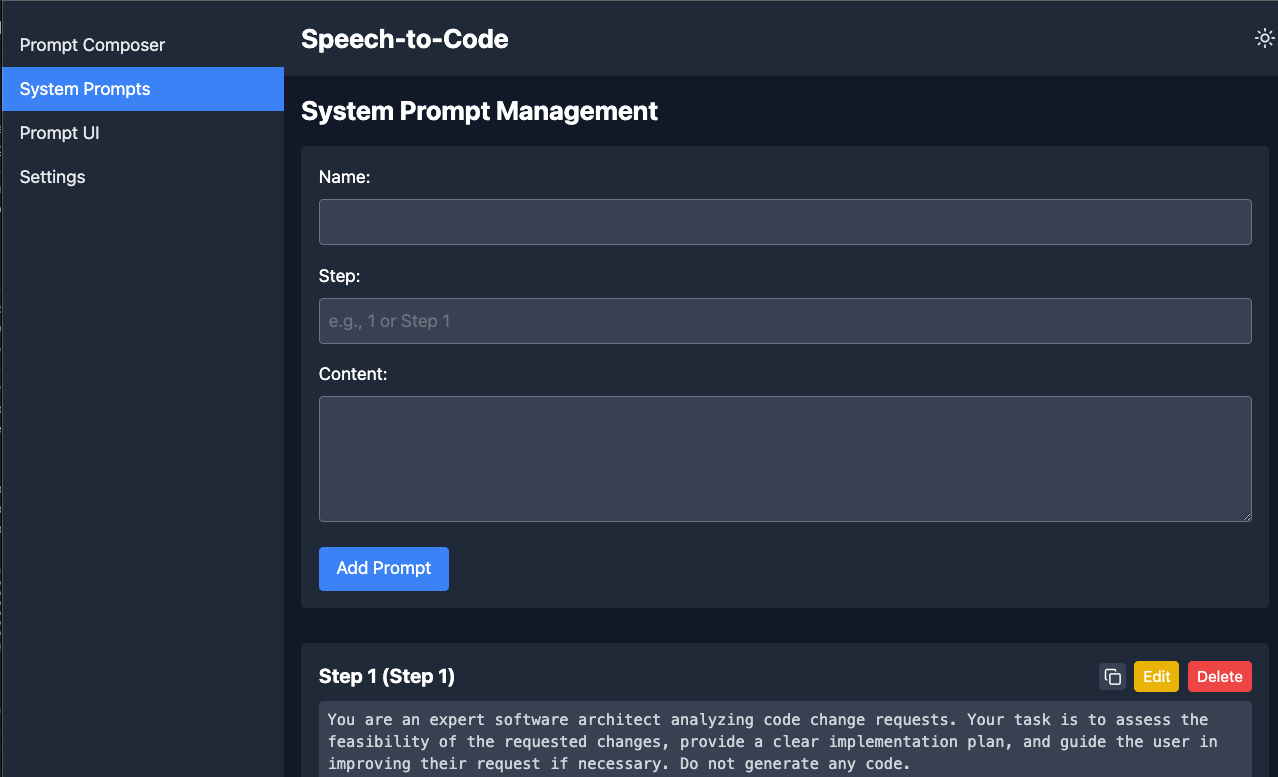
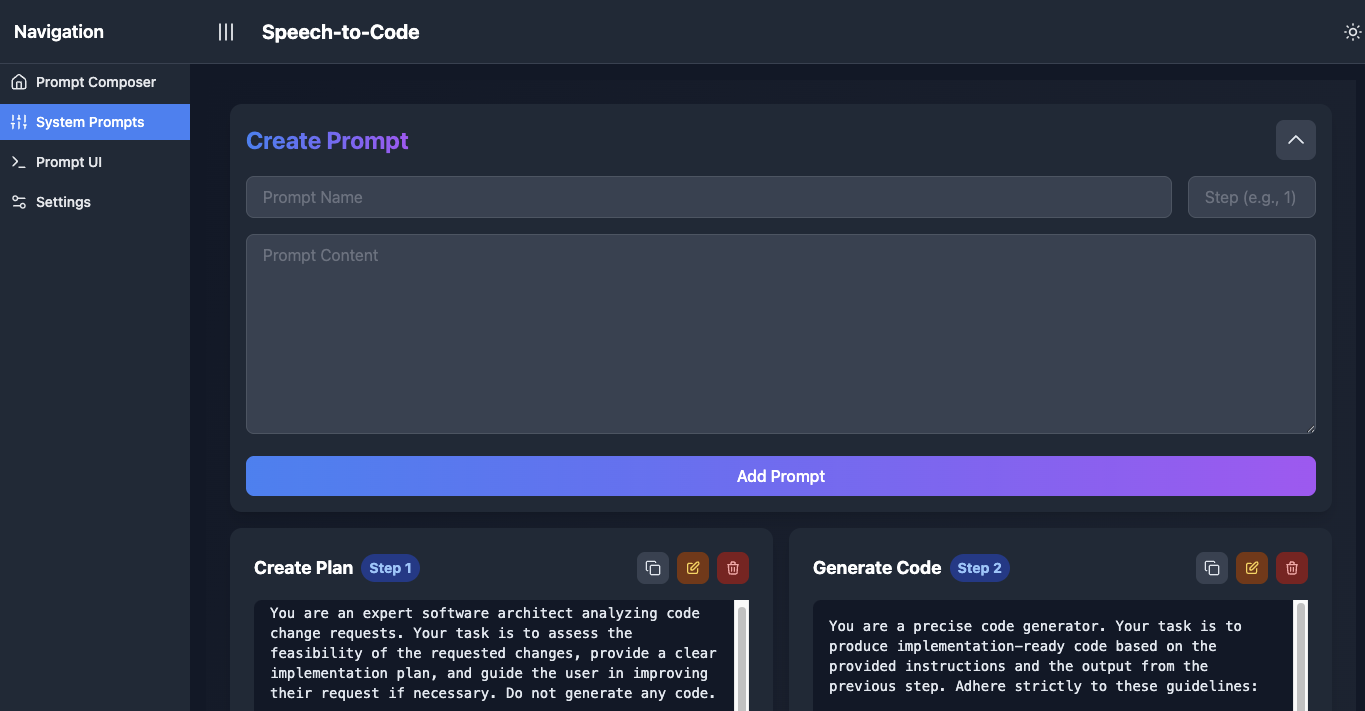
update readme and images

diff --git a/README.md b/README.md
@@ -1,167 +1,159 @@
-# Speech-to-Code
+# 🎙 Speech-to-Code
+
+> Transform your voice into code with the power of AI 🚀
 
 Speech-to-Code is a web application that leverages Large Language Models (LLMs) to convert spoken language into executable code. This project aims to streamline the code generation process by allowing developers to express their ideas verbally and have them translated into functional code.
 
-## Usage
+## ✨ Key Features
 
-Here is an example workflow of the Speech-to-Code application:
+### 🎯 Advanced Prompt Composer
+- 🗣 Combine speech, repository files, and manual text input
+- 📊 Real-time audio visualization for voice input
+- 🔍 Smart file suggestions based on context
+- 👀 Preview and edit prompts before submission
 
-### Write a prompt, combining speech, the repo tree, and current source code
-![Prompt Composer](./screenshots/prompt_composer.png)
+### 🤖 Multi-Model Support
+- 🔌 Integration with multiple LLM providers (OpenAI, Anthropic)
+- ⚙ Customizable model parameters
+- 💰 Cost tracking and display
+- ⚡ Model-specific optimizations
 
-### Prompt an LLM and copy the code
-![Prompt](./screenshots/prompt_ui.png)
-![Copy Code](./screenshots/conversation_display.png)
+### 📁 Repository Integration
+- 🌳 Interactive file viewer for repository navigation
+- 🔗 Smart file combinations for context
+- 📝 File-based suggestions
+- 📊 Repository structure visualization
 
-### Manage system prompts
-![System Prompts](./screenshots/system_prompts.png)
+### 🎤 Transcription Management
+- ⚡ Real-time speech-to-text conversion
+- ✏ Transcription editing and refinement
+- 📈 Voice input visualization
 
-## Prerequisites
+### 💡 System Prompt Management
+- 📝 Create and edit system prompts
+- 📂 Organize prompts by category
+- ⚡ Quick prompt selection
+- 🔄 Version control for prompts
 
-Before you begin, ensure you have met the following requirements:
-* You have installed the latest version of [Node.js and npm](https://nodejs.org/en/download/)
-* You have installed [Python](https://www.python.org/downloads/) (version 3.7 or later)
-* You have a Windows/Linux/Mac machine with command line access
+### 🎨 User Experience
+- 🌓 Dark/Light mode toggle
+- 📊 Two-column layout for better workflow
+- 📱 Responsive design
+- 📋 Copy-to-clipboard functionality
 
-## Installation
+### ⚙ Advanced Settings
+- 🔑 Environment variable management
+- 📂 Repository path configuration
+- 🔒 API key management
+- 🔌 Port configuration
 
-To install Speech-to-Code, follow these steps:
+## 🚀 Getting Started
 
-1. Clone the repository
-   ```
+### 📋 Prerequisites
+
+Before you begin, ensure you have installed:
+* 📦 [Node.js and npm](https://nodejs.org/en/download/) (latest version)
+* 🐍 [Python](https://www.python.org/downloads/) (version 3.7 or later)
+* 💻 A Windows/Linux/Mac machine with command line access
+
+### 🔧 Installation
+
+1. **Clone the repository**
+   ```bash
    git clone https://github.com/dharllc/speech-to-code.git
    cd speech-to-code
    ```
 
-2. Make the build script executable
-   ```
+2. **Make the build script executable**
+   ```bash
    chmod +x build.sh
    ```
 
-3. Run the build script
-   ```
+3. **Run the build script**
+   ```bash
    ./build.sh
    ```
-   This script will:
-   - Install necessary dependencies for both frontend and backend
-   - Set up a Python virtual environment
-   - Create .env files with placeholders for API keys if they don't exist
+   The script will:
+   - 📦 Install necessary dependencies
+   - 🐍 Set up a Python virtual environment
+   - 🔑 Create .env files with placeholders
 
-4. Configure environment variables
-   After running the application, navigate to the Settings page to configure your environment variables, including:
-   - OPENAI_API_KEY
-   - GOOGLE_API_KEY
-   - ANTHROPIC_API_KEY
-   - REPO_PATH (path to your local GitHub repositories)
+4. **Configure Environment Variables**
+   Navigate to the Settings page to configure:
+   - OpenAI API Key
+   - Google API Key
+   - Anthropic API Key
+   - Repository Path
 
-## Running the Application
+## 🚀 Running the Application
 
-To run Speech-to-Code, follow these steps:
-
-1. Configure ports (optional):
-Edit `config.json` in the root directory to set custom ports. If you need to change the port numbers for the frontend or backend, do it from the root config.json file. 
-```json
-{
-    "frontend": {
-        "port": 3000 
-    },
-    "backend": {
-        "port": 8000 
-    }
-}
-```
-
-2. Start the frontend:
+1. **Configure ports** (optional)
+   Edit `config.json` in the root directory:
+   ```json
+   {
+       "frontend": {
+           "port": 3000 
+       },
+       "backend": {
+           "port": 8000 
+       }
+   }
    ```
+
+2. **Start the frontend**
+   ```bash
    cd frontend
    npm start
    ```
 
-3. In a new terminal, start the backend:
-   ```
+3. **Start the backend**
+   ```bash
    cd backend
    source venv/bin/activate
    uvicorn main:app --reload --log-level debug
    ```
 
-The application should now be running. Access the frontend at `http://localhost:3000` in your web browser, or the port set in the config.json file. Create a unique python virtual environment for this repository and install the required packages using:
+Access the application at `http://localhost:3000` 🌐
 
-```
-pip install -r requirements.txt
-```
-
-This command should be executed in the /backend folder.
-
-## Project Structure
+## 📁 Project Structure
 
 ```
 speech-to-code/
-├── backend/
+├── 🔧 backend/
 │   ├── .env
 │   ├── main.py
 │   ├── llm_interaction.py
 │   ├── model_config.py
 │   ├── system_prompts.json
 │   ├── context_maps/
-│   ├── utils/
-├── frontend/
+│   └── utils/
+├── 🎨 frontend/
 │   ├── public/
-│   ├── src/
-│   │   ├── components/
-│   │   ├── services/
-│   │   ├── config/
-│   ├── .env
-│   ├── .gitignore
-│   ├── package-lock.json
-│   ├── package.json
-│   ├── postcss.config.js
-│   └── tailwind.config.js
-├── logs/
-├── .gitattributes
-├── .gitignore
-├── package-lock.json
-├── README.md
+│   └── src/
+│       ├── components/
+│       ├── services/
+│       └── config/
+├── 📝 logs/
+└── 📄 README.md
 ```
 
-## Key Components
+## 🔧 Troubleshooting
 
-### Backend
-- `main.py`: The main FastAPI application
-- `llm_interaction.py`: Handles interactions with Language Learning Models
-- `model_config.py`: Configuration for different language models
-- `system_prompts.json`: Stores system prompts for LLM interactions
+If you encounter issues:
+1. 🔑 Verify API keys in Settings
+2. 📦 Check dependencies
+3. 🚀 Ensure both servers are running
 
-### Frontend
-- `src/components/`: React components for the user interface
-- `src/services/llmService.js`: Service for interacting with the backend LLM API
-- `src/App.js`: Main React application component
-- `src/components/Settings.js`: Component for managing environment variables and repository settings
+For detailed logs, check the console output of both servers.
 
-## Features
+## 🤝 Contributing
 
-- Prompt Composer: Craft and edit prompts for code generation
-- System Prompt Management: Manage and customize system prompts
-- Prompt UI: Interact with various Large Language Models
-- Settings: Configure environment variables and repository settings
-- Dark Mode: Toggle between light and dark themes
+We welcome contributions! Check our issues page for current tasks or suggest new features.
 
-## Troubleshooting
+## 📬 Feedback
 
-If you encounter any issues:
-- Ensure all API keys are correctly set in the Settings page
-- Check that all dependencies are installed correctly
-- Verify that both frontend and backend servers are running
+Have suggestions? Email me at sachin@dharllc.com
 
-For more detailed error messages, check the console output of both frontend and backend servers.
+## 📄 License
 
-## Contributing
-
-Contributions to Speech-to-Code are welcome. Please refer to the repository's issues page for current tasks or to suggest new features.
-
-## Feedback
-
-Please send feedback via email to sachin@dharllc.com
-
-## License
-
-This project uses the following license: [MIT License](https://opensource.org/licenses/MIT).
+This project is licensed under the [MIT License](https://opensource.org/licenses/MIT) 📜
